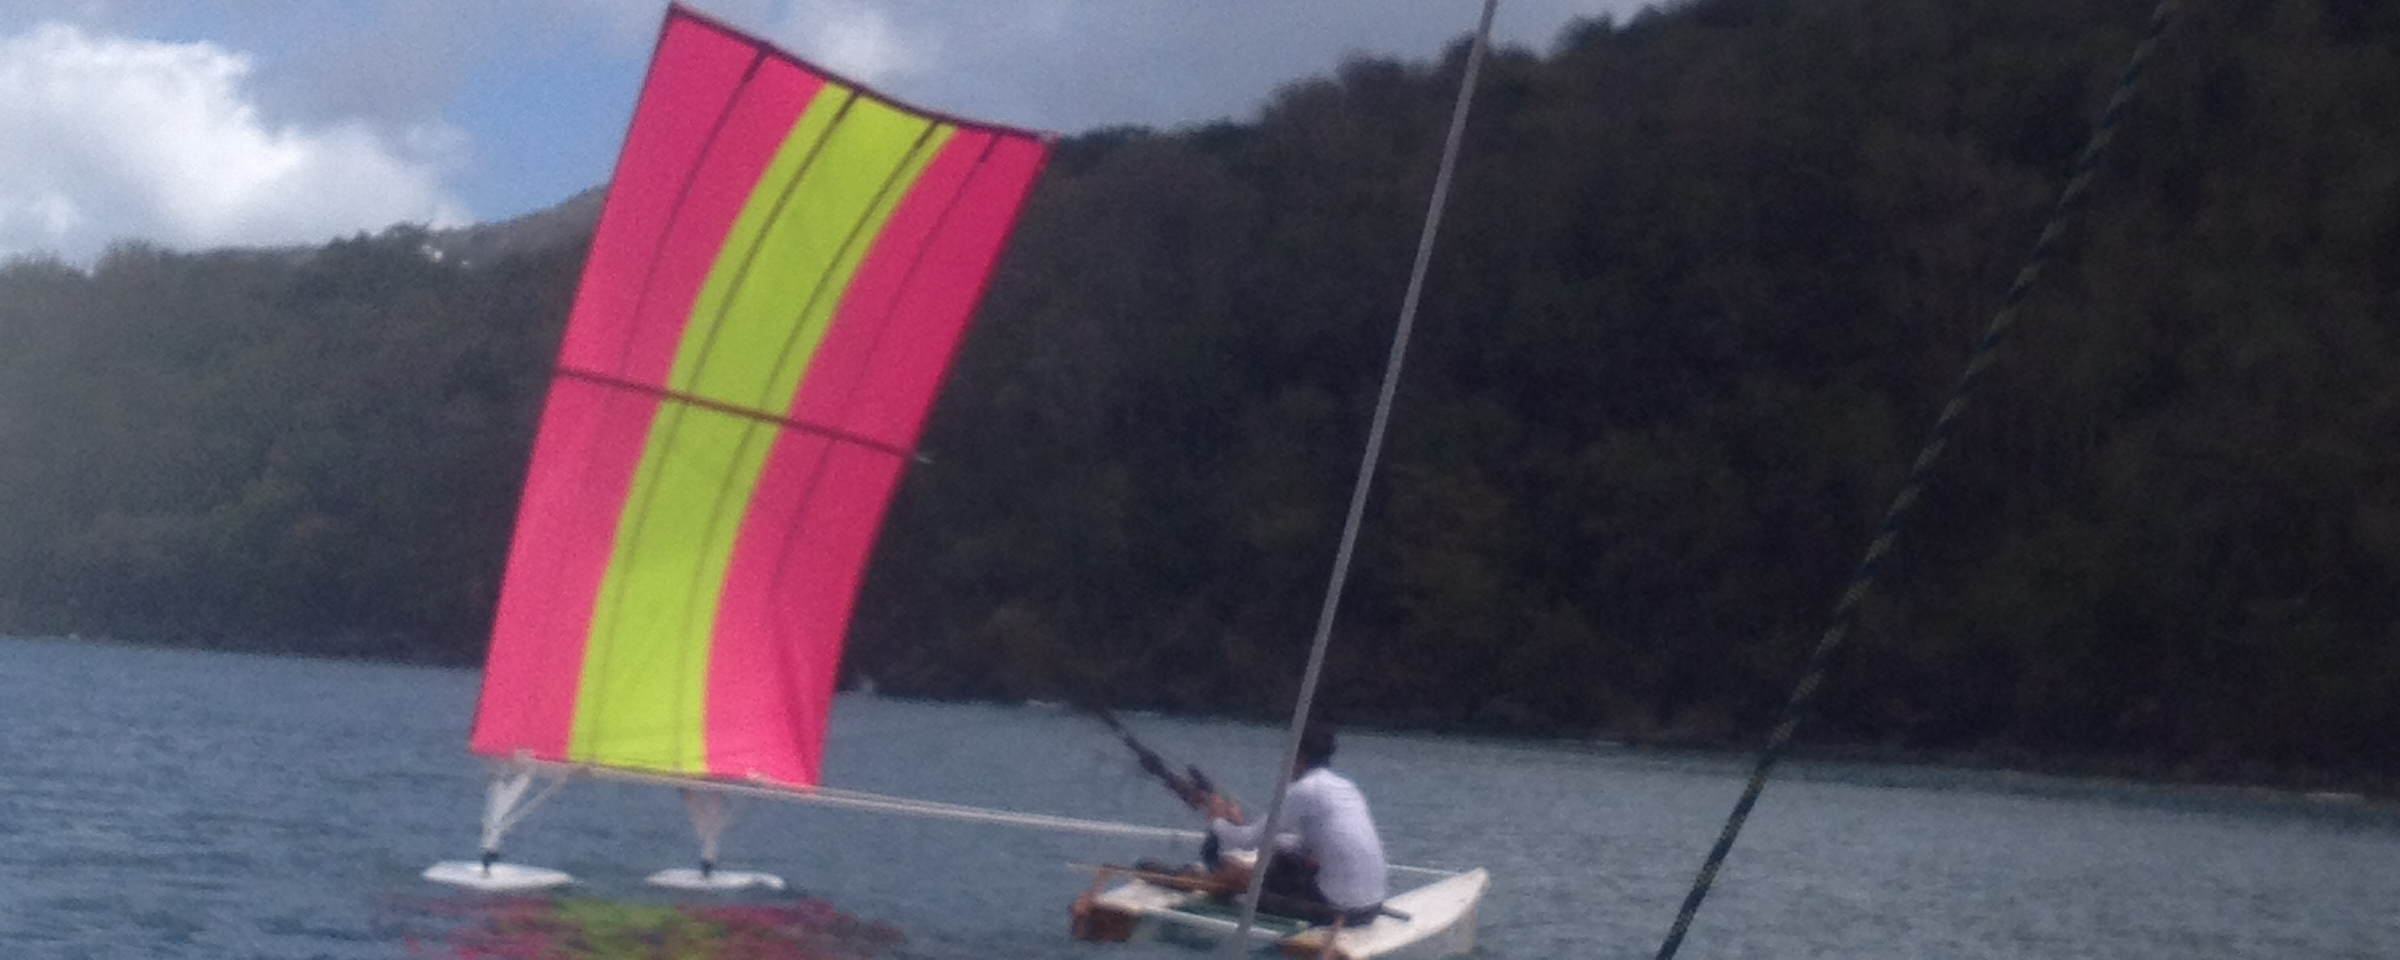
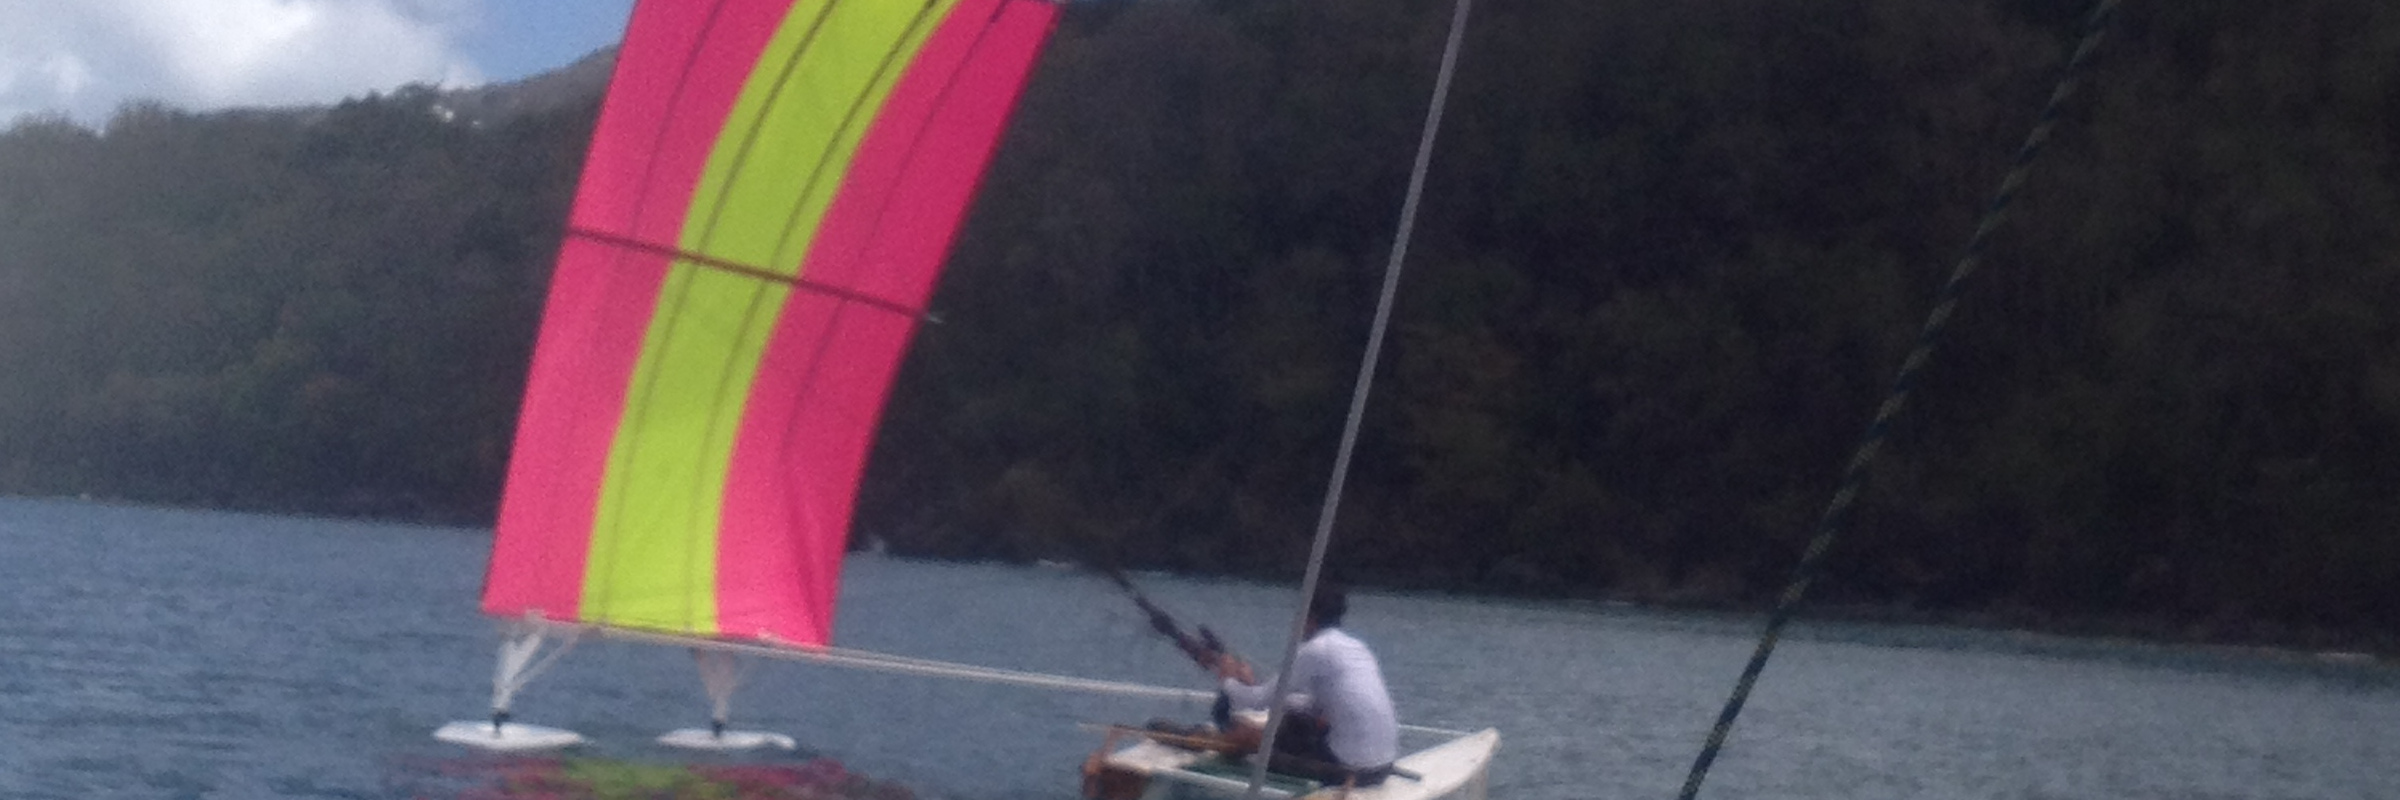
Bandeau accueil

Changed region(s): [[0.0, 0.0, 0.7188, 0.5938], [0.0, 0.625, 0.9062, 1.0], [0.9688, 0.8125, 1.0, 0.8438]]

diff --git a/style.css b/style.css
@@ -113,6 +113,11 @@ section aside h1
     margin-top: 10px;
 }
 
+.panoramique
+{
+    border-radius: 10px;
+}
+
 /* PAGE DESCRIPTION */
 .tableau
 {
@@ -147,7 +152,7 @@ section aside h1
 .autoplay
 {
     width: 900px;
-    height: 360px;
+    height: 300px;
     margin: auto;
 }
 

diff --git a/index.php b/index.php
@@ -11,23 +11,21 @@
             
             <div class="corps">
                 <div id="banniere_image">
-                    <div id="banniere_description">
-                        <div class="gallery autoplay items-2">
-                            <div id="item-1" class="control-operator"></div>
-                            <div id="item-2" class="control-operator"></div>
-                            
-                            <figure class="item">
-                                <img src="images/accueil1.jpg" alt="Voilure" />
-                            </figure>
-                            
-                            <figure class="item">
-                                <img src="images/accueil2.jpg" alt="Voilure" />
-                            </figure>
-                            
-                            <div class="controls">
-                                <a href="#item-1" class="control-button"></a>
-                                <a href="#item-2" class="control-button"></a>
-                            </div>
+                    <div class="gallery autoplay items-2">
+                        <div id="item-1" class="control-operator"></div>
+                        <div id="item-2" class="control-operator"></div>
+                        
+                        <figure class="item">
+                            <img src="images/accueil1.jpg" alt="Voilure" class="panoramique" />
+                        </figure>
+                        
+                        <figure class="item">
+                            <img src="images/accueil2.jpg" alt="Voilure" class="panoramique" />
+                        </figure>
+                        
+                        <div class="controls">
+                            <a href="#item-1" class="control-button"></a>
+                            <a href="#item-2" class="control-button"></a>
                         </div>
                     </div>
                 </div>
